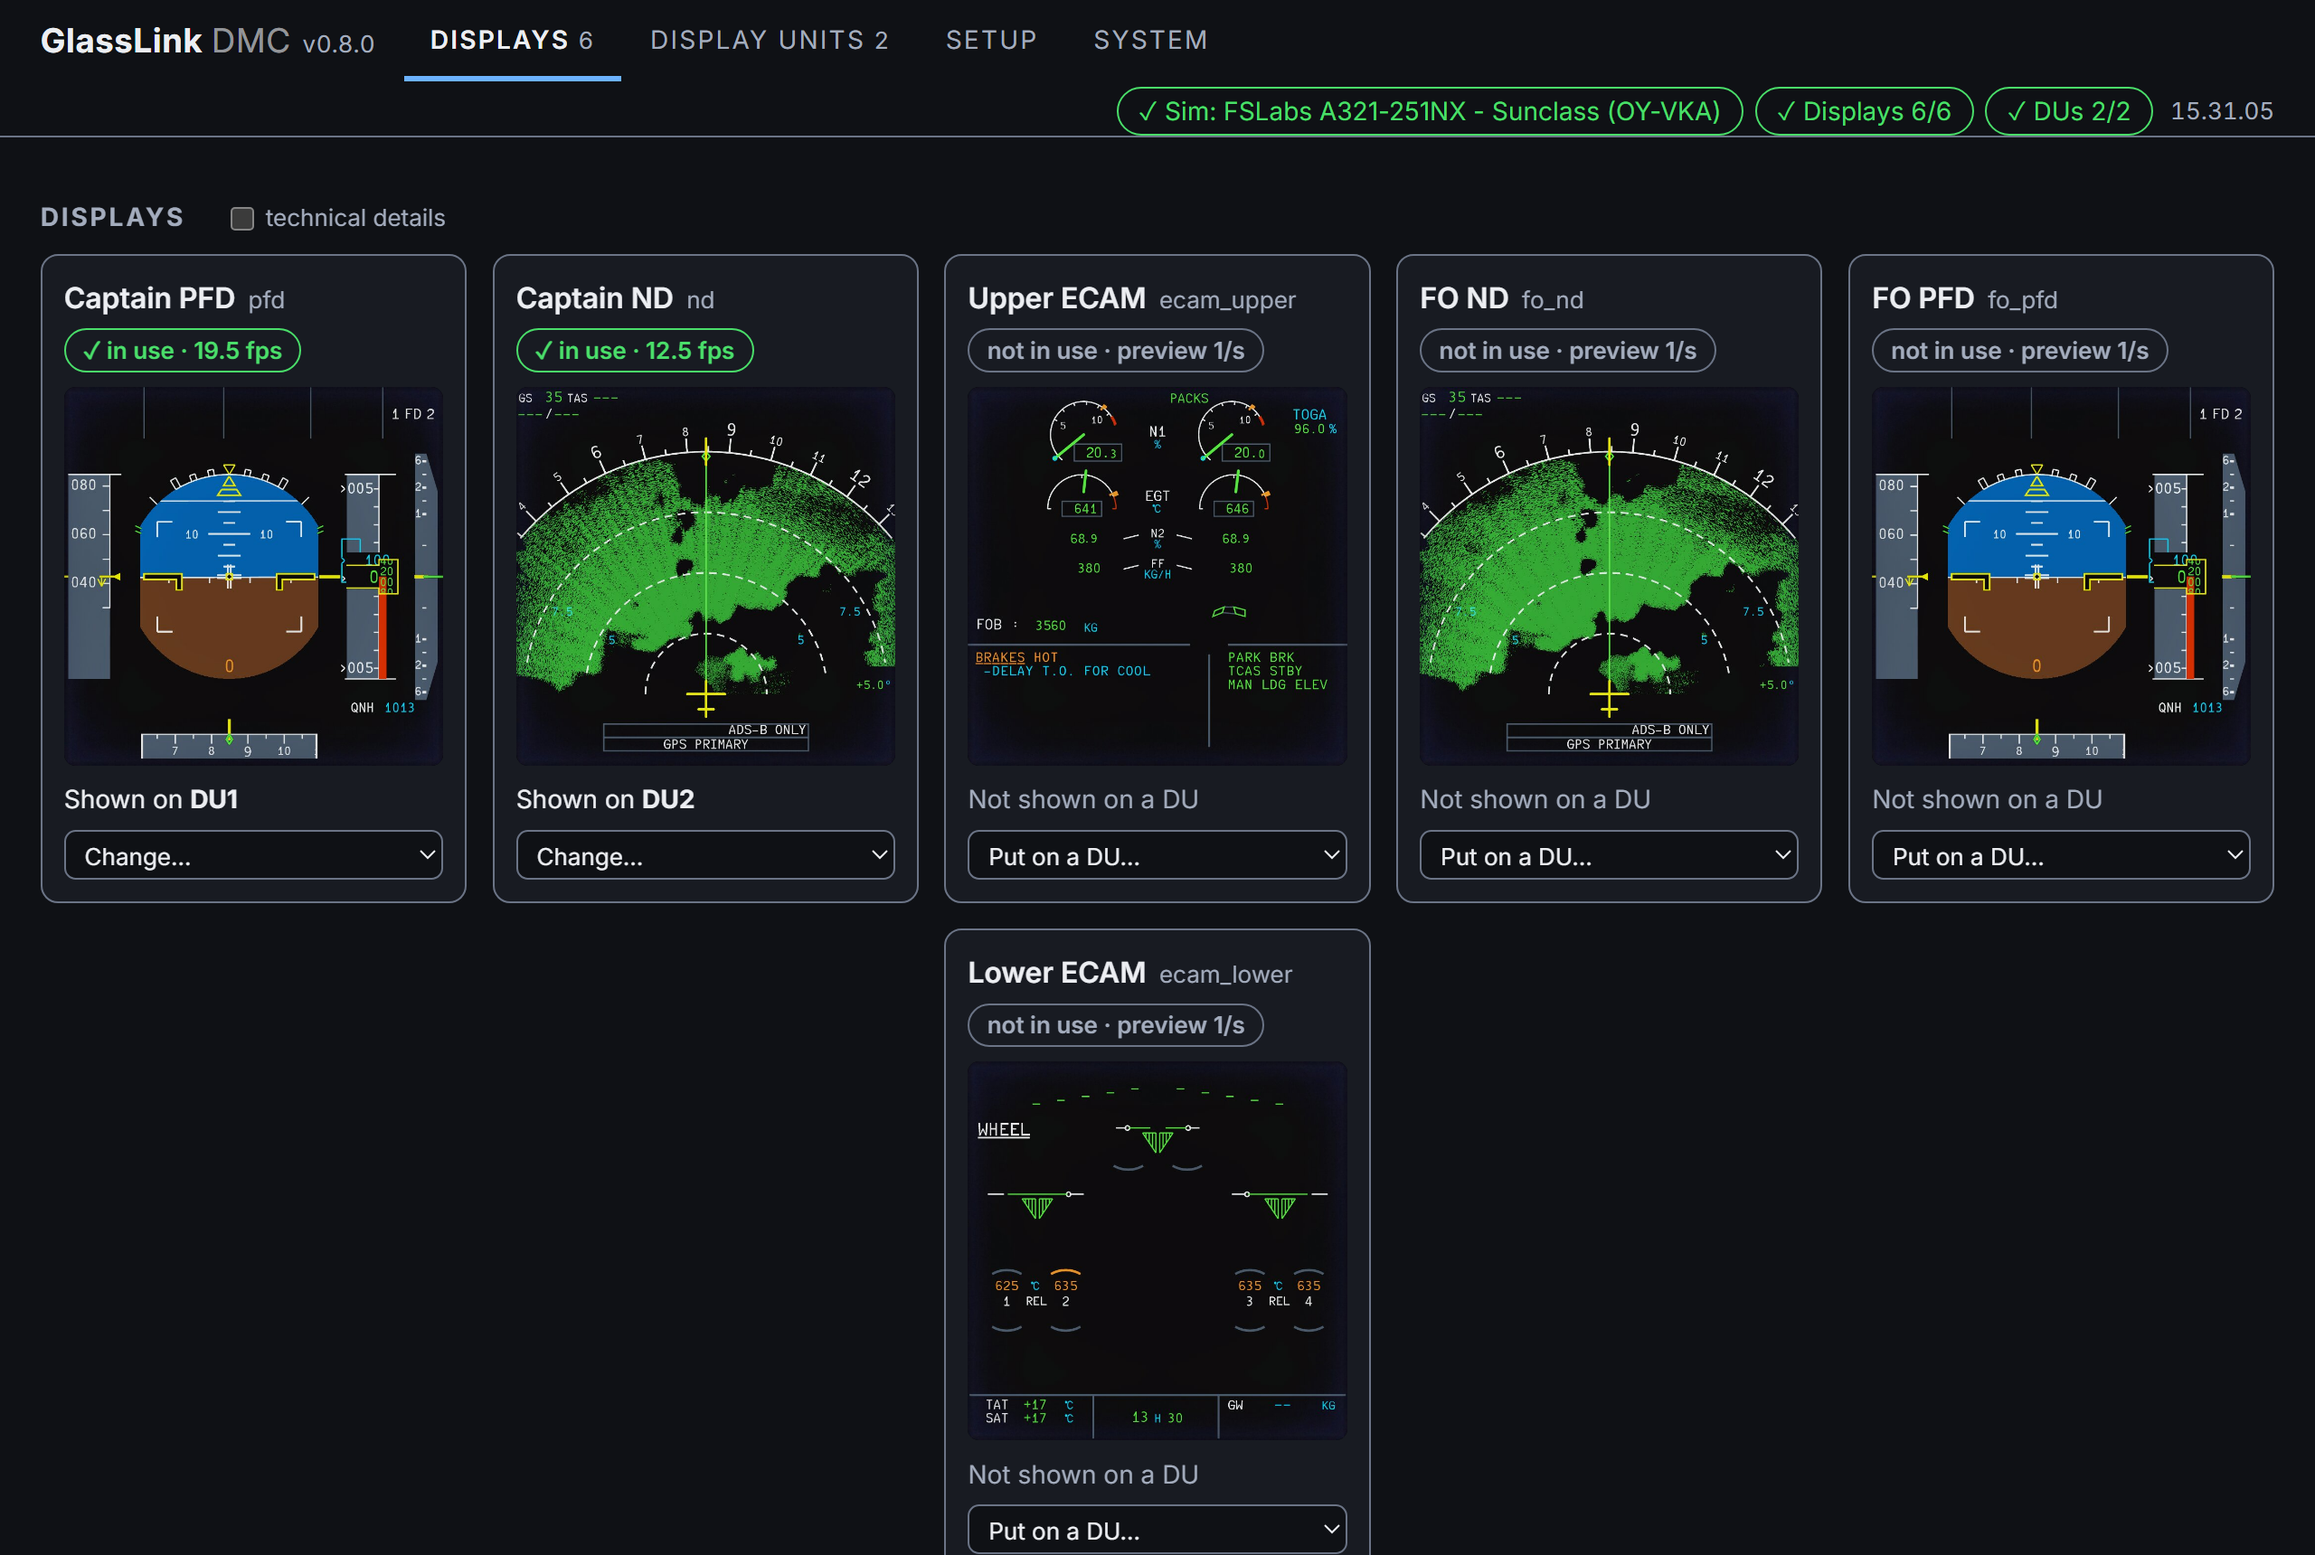
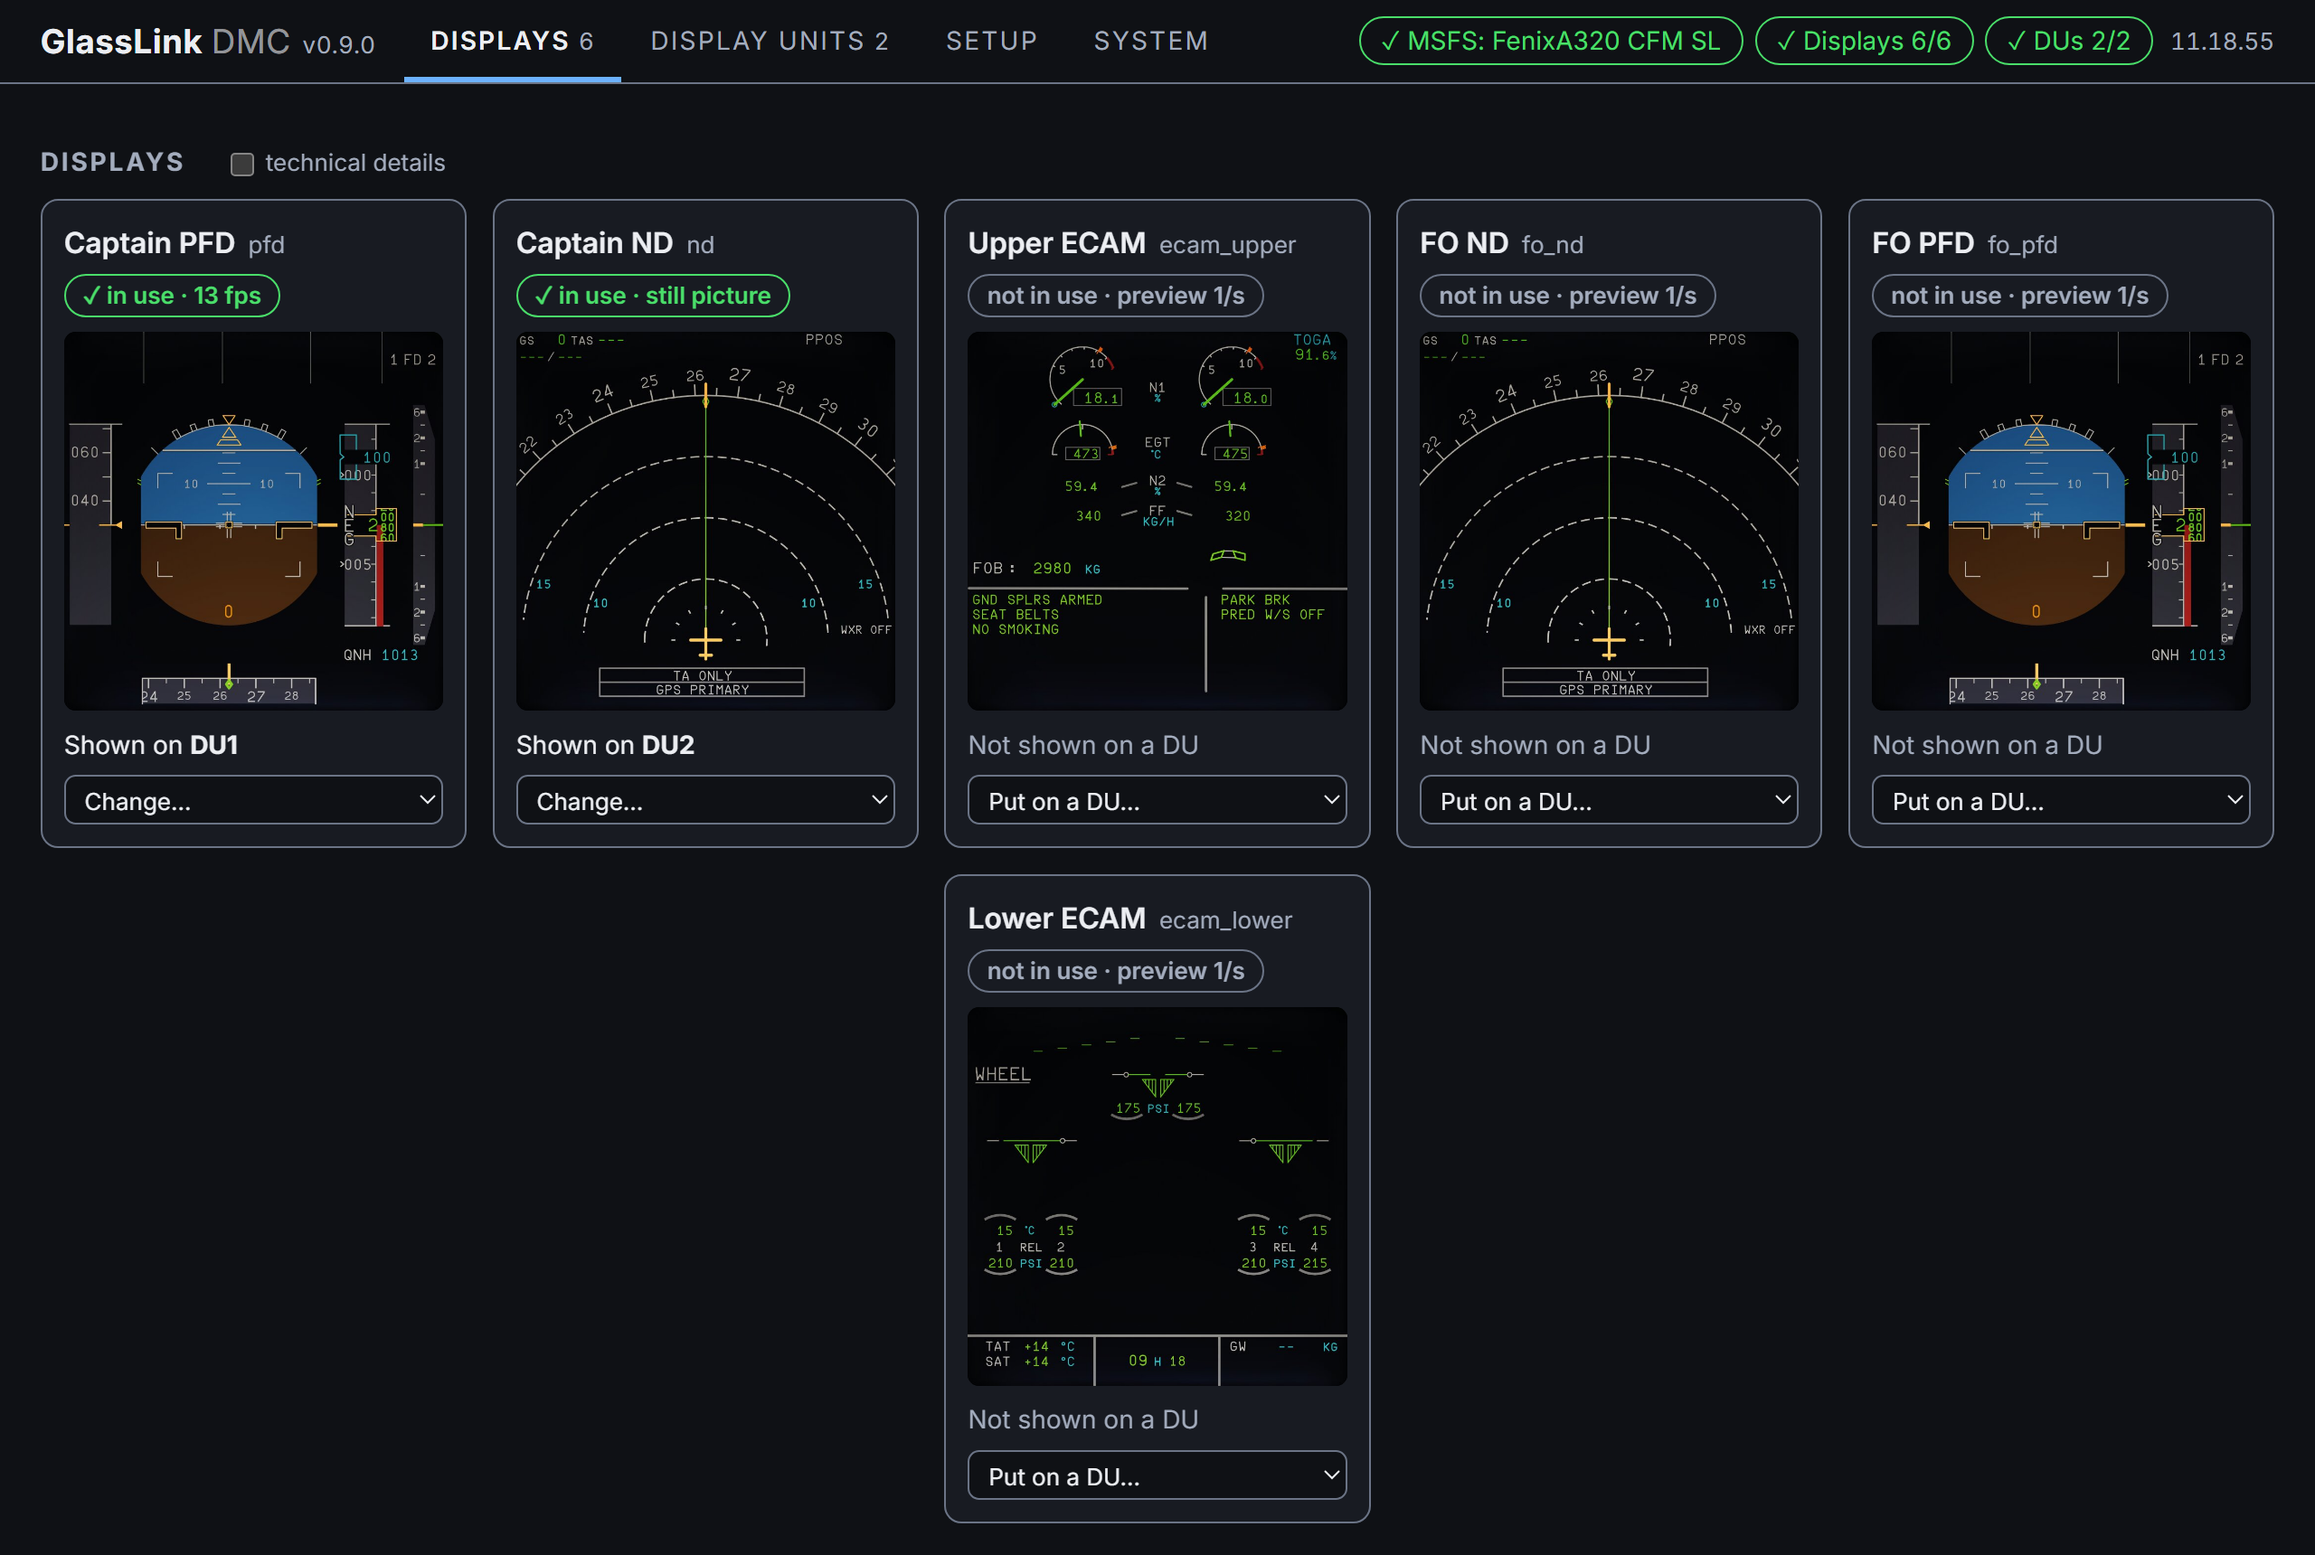
README: status page screenshots retaken with 0.9.0 (MSFS pill, Fenix A320)

diff --git a/README.md b/README.md
@@ -19,7 +19,7 @@ learned for other MSFS aircraft).
 Why pixels: re-rendering a PFD from simulator variables means rewriting the aircraft's display software. Capturing
 the rendered pop-out windows gives an exact copy for any aircraft.
 
-<p align="center"><img src="docs/images/status-displays.png" width="100%" alt="The status page's Displays tab with the FSLabs A321 loaded: six live previews (Captain PFD and ND, upper and lower ECAM, FO PFD and ND), the captain's PFD and ND in use on DU1 and DU2 at 19.5 and 12.5 frames a second, the others with a Put on a DU menu."></p>
+<p align="center"><img src="docs/images/status-displays.png" width="100%" alt="The status page's Displays tab with the Fenix A320 loaded in MSFS: six live previews (Captain PFD and ND, upper and lower ECAM, FO ND and PFD), the captain's PFD and ND shown on DU1 and DU2, the others with a Put on a DU menu."></p>
 
 ## What it does
 
@@ -88,7 +88,7 @@ what helps.
    popup config on quit", then click each display in the cockpit and pop its popup out with the button at the right
    end of its title bar. From then on GlassLink opens them by itself, within a minute of loading a flight.
 
-<p align="center"><img src="docs/images/status-setup.png" width="100%" alt="The status page's Setup tab for the FSLabs: each of the six displays has a click point (captain seat, or FO seat for the FO PFD) and an open window, its size of 768 by 768, where it is parked off-screen, and Learn again; below, the key that brings back your own camera after a pop-out."></p>
+<p align="center"><img src="docs/images/status-setup.png" width="100%" alt="The status page's Setup tab for the Fenix: each of the six displays has a click point (captain seat, or FO seat for the FO PFD) and an open window, its size of 768 by 768, where it is parked off-screen, and Learn again; below, the key that brings back your own camera after a pop-out."></p>
 
 Stop GlassLink with **Quit** in its tray menu. Never end it with Task Manager while the sim runs: ending a process
 that holds window captures can upset the graphics driver.
